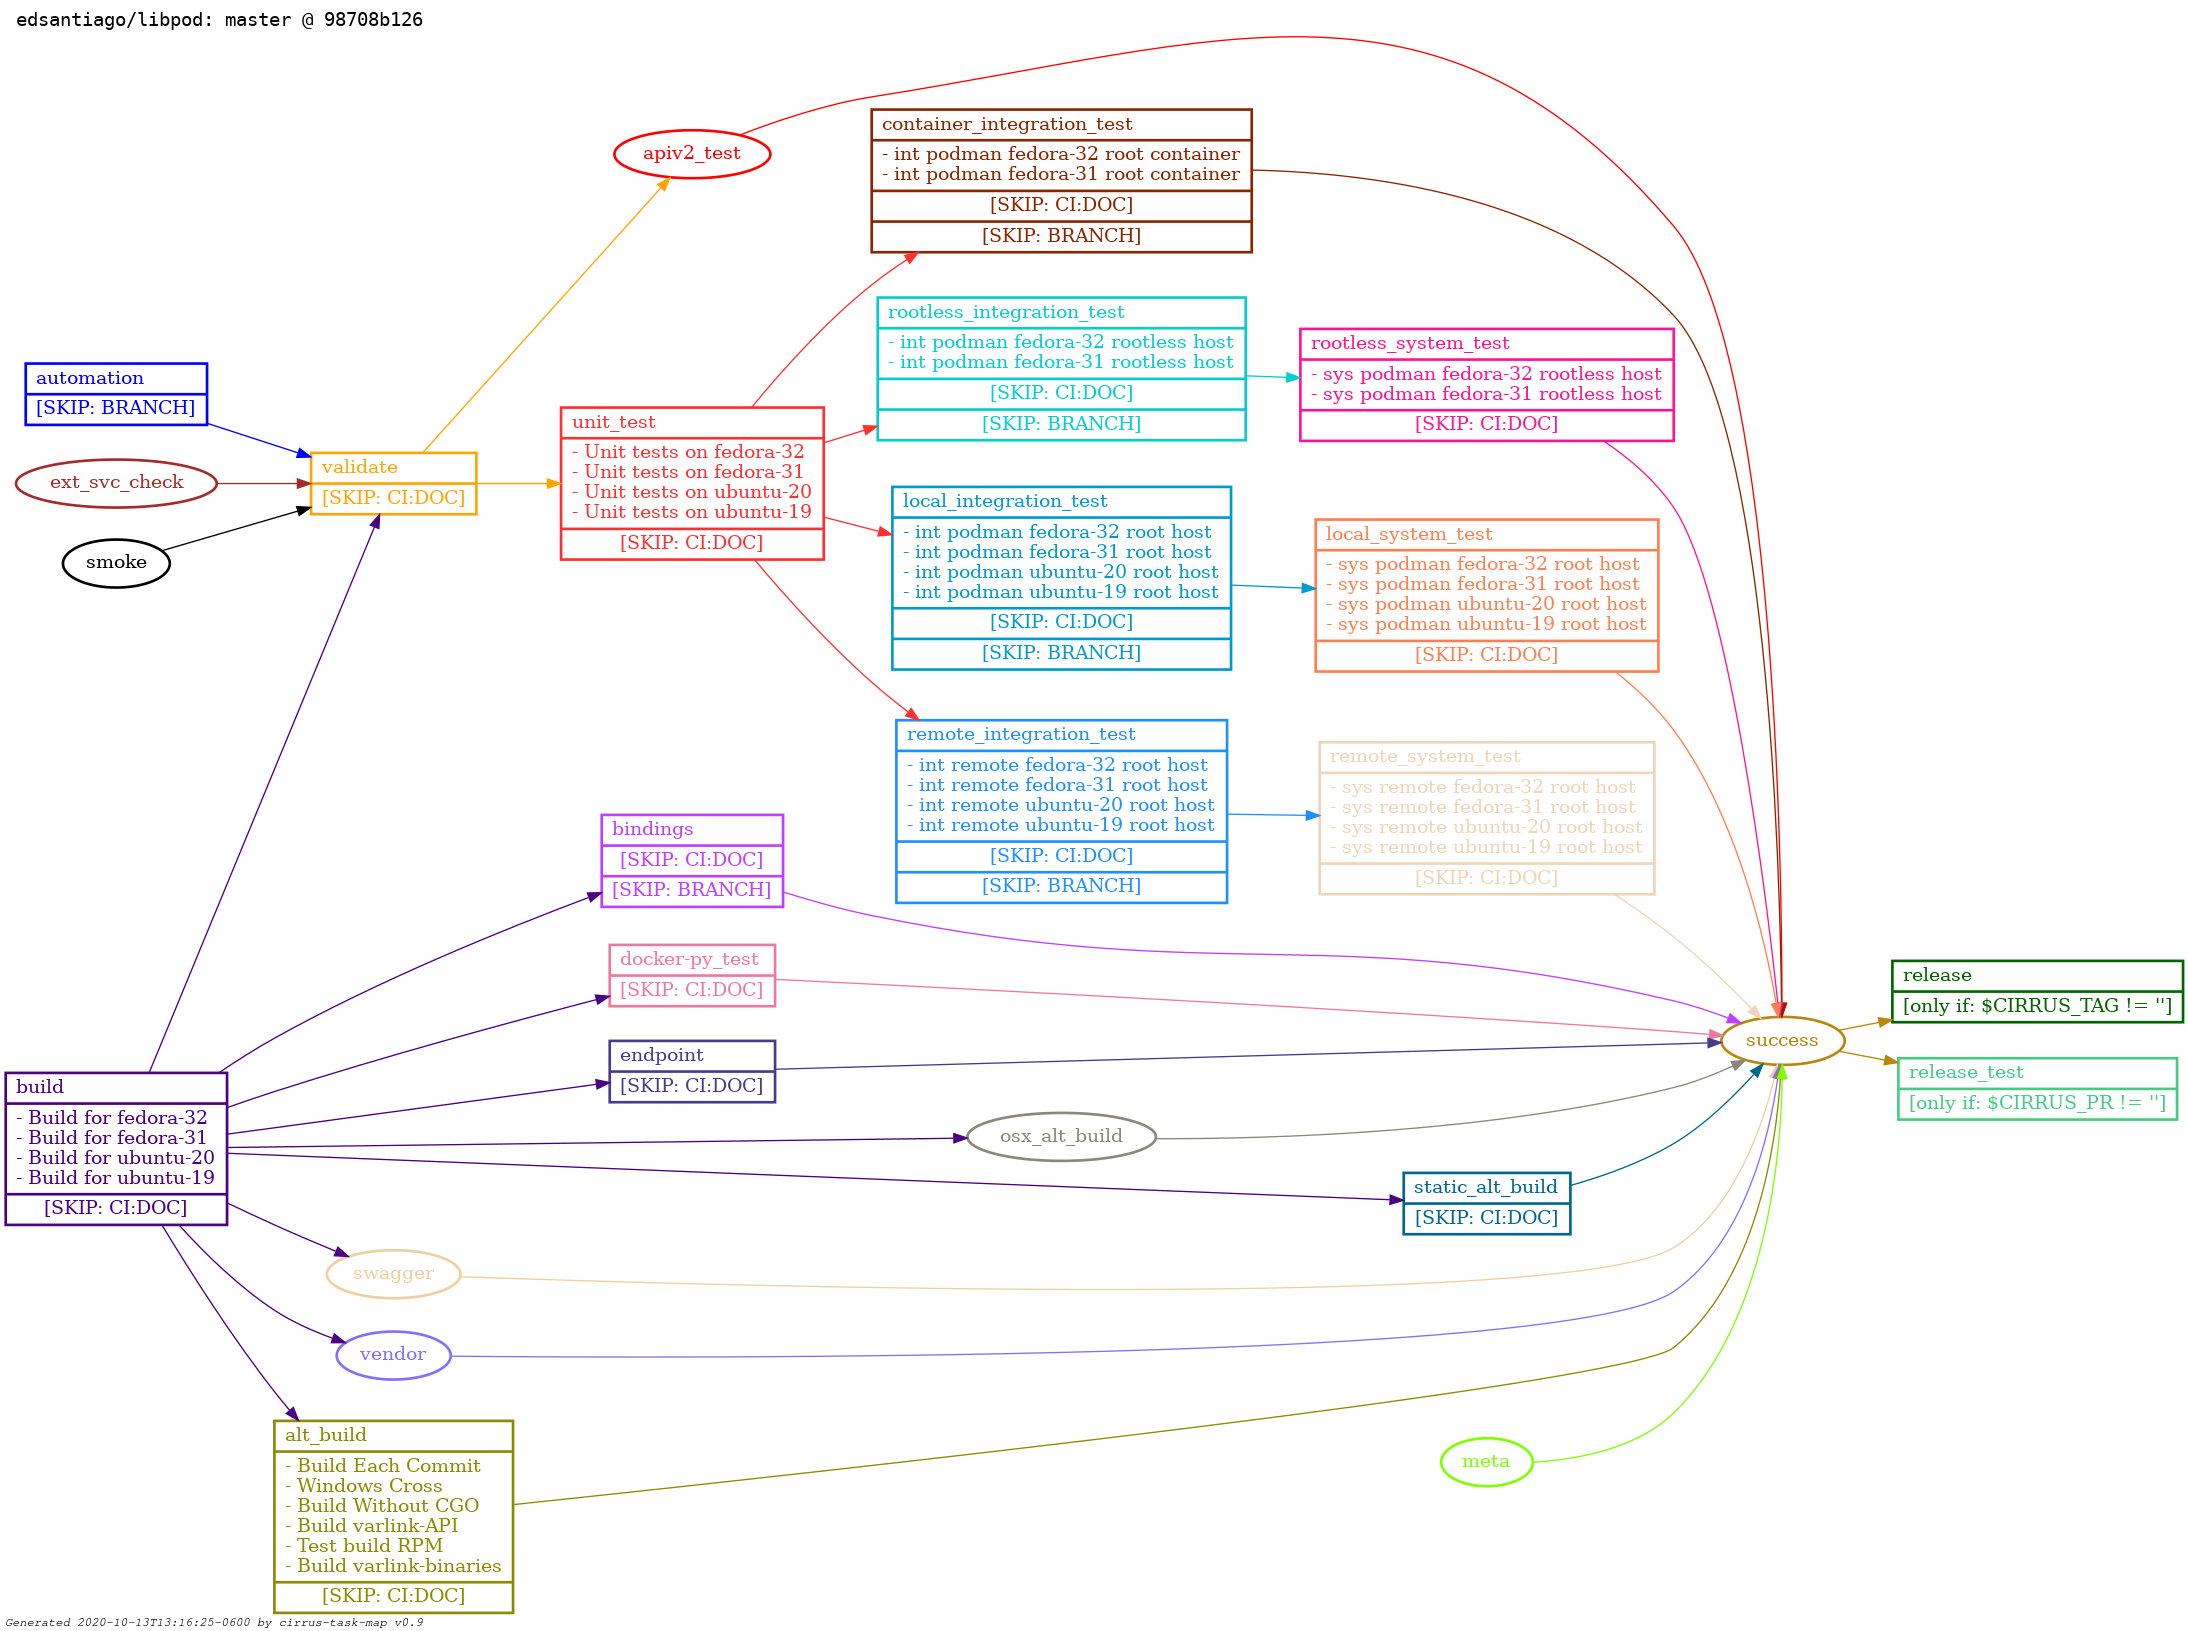
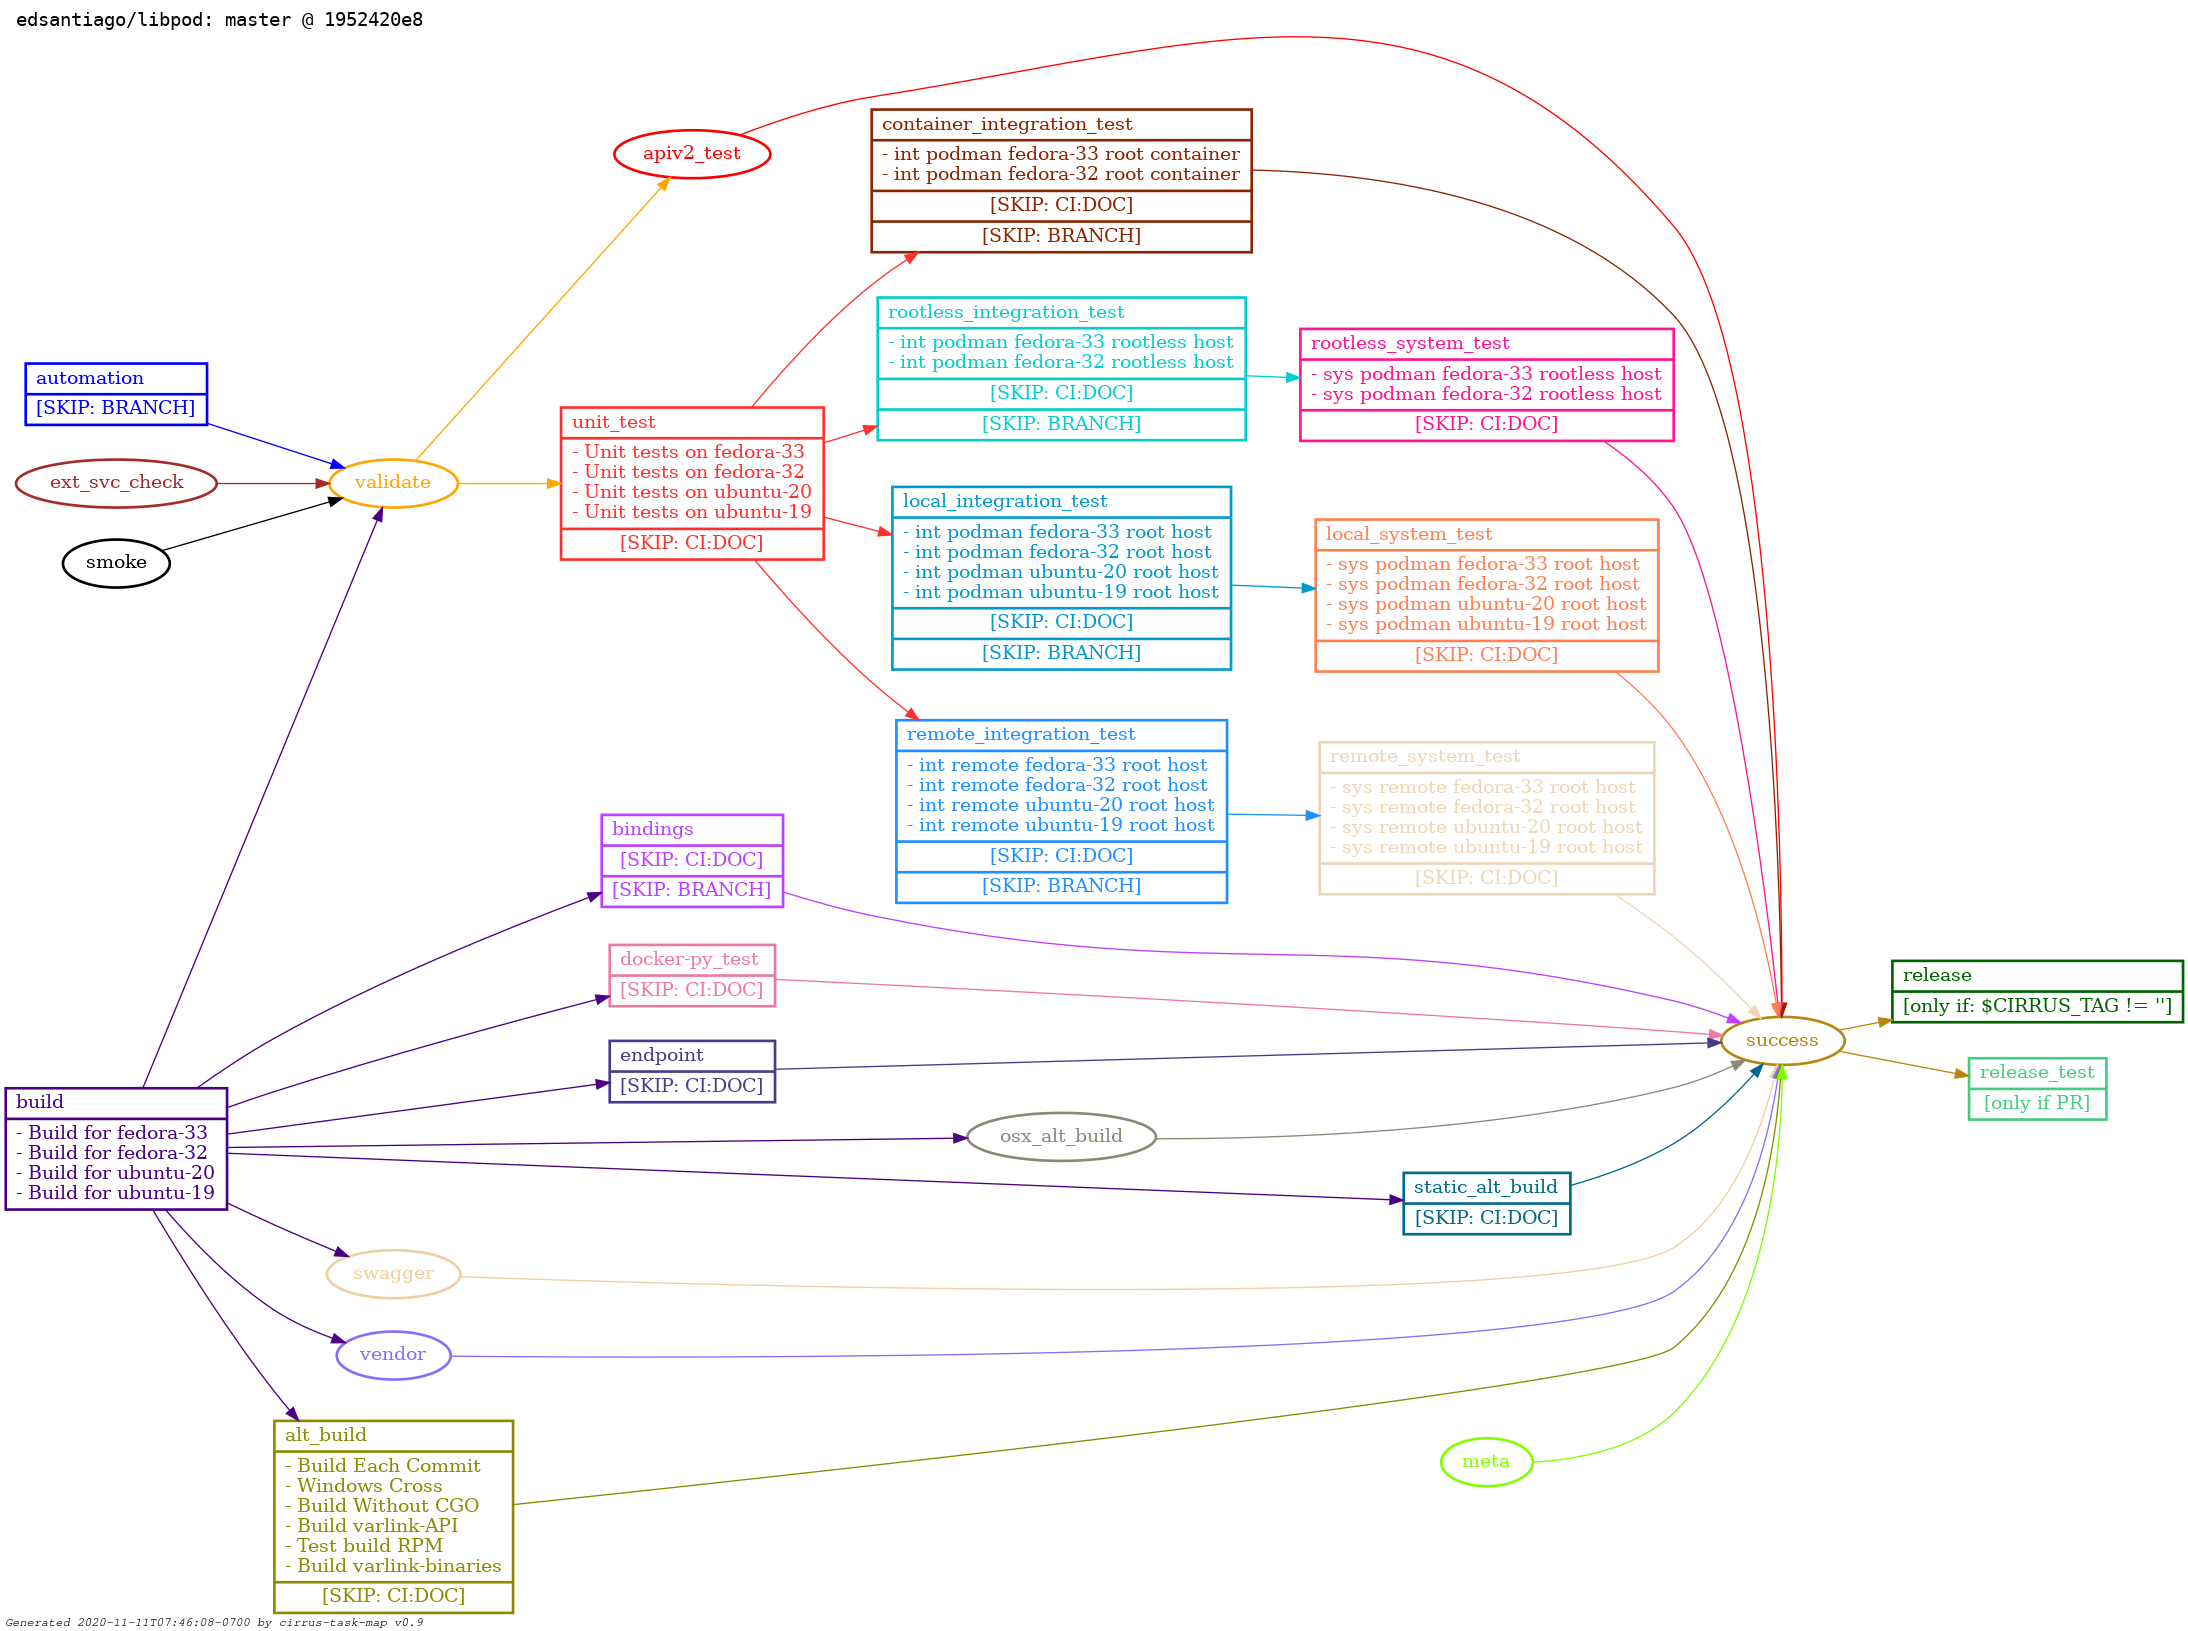
cirrus task map: update to post-8297 (run validate even in docs)

diff --git a/Cirrus-Dependency-Visualization.md b/Cirrus-Dependency-Visualization.md
@@ -1,3 +1,3 @@
-Cirrus task dependencies make my brain spin, so I wrote a quick tool to use [graphviz](https://graphviz.org/) for a simple diagram. Here's what we have as of 2020-10-13, reflecting the "Cirrus 2.0" structure (#6784) plus subsequent fixes.
+Cirrus task dependencies make my brain spin, so I wrote a quick tool to use [graphviz](https://graphviz.org/) for a simple diagram. Here's what we have as of 2020-11-11, reflecting the "Cirrus 2.0" structure (#6784) plus subsequent fixes.
 
 ![Cirrus Dependencies as of 2020-10-13](cirrus-map.png)
